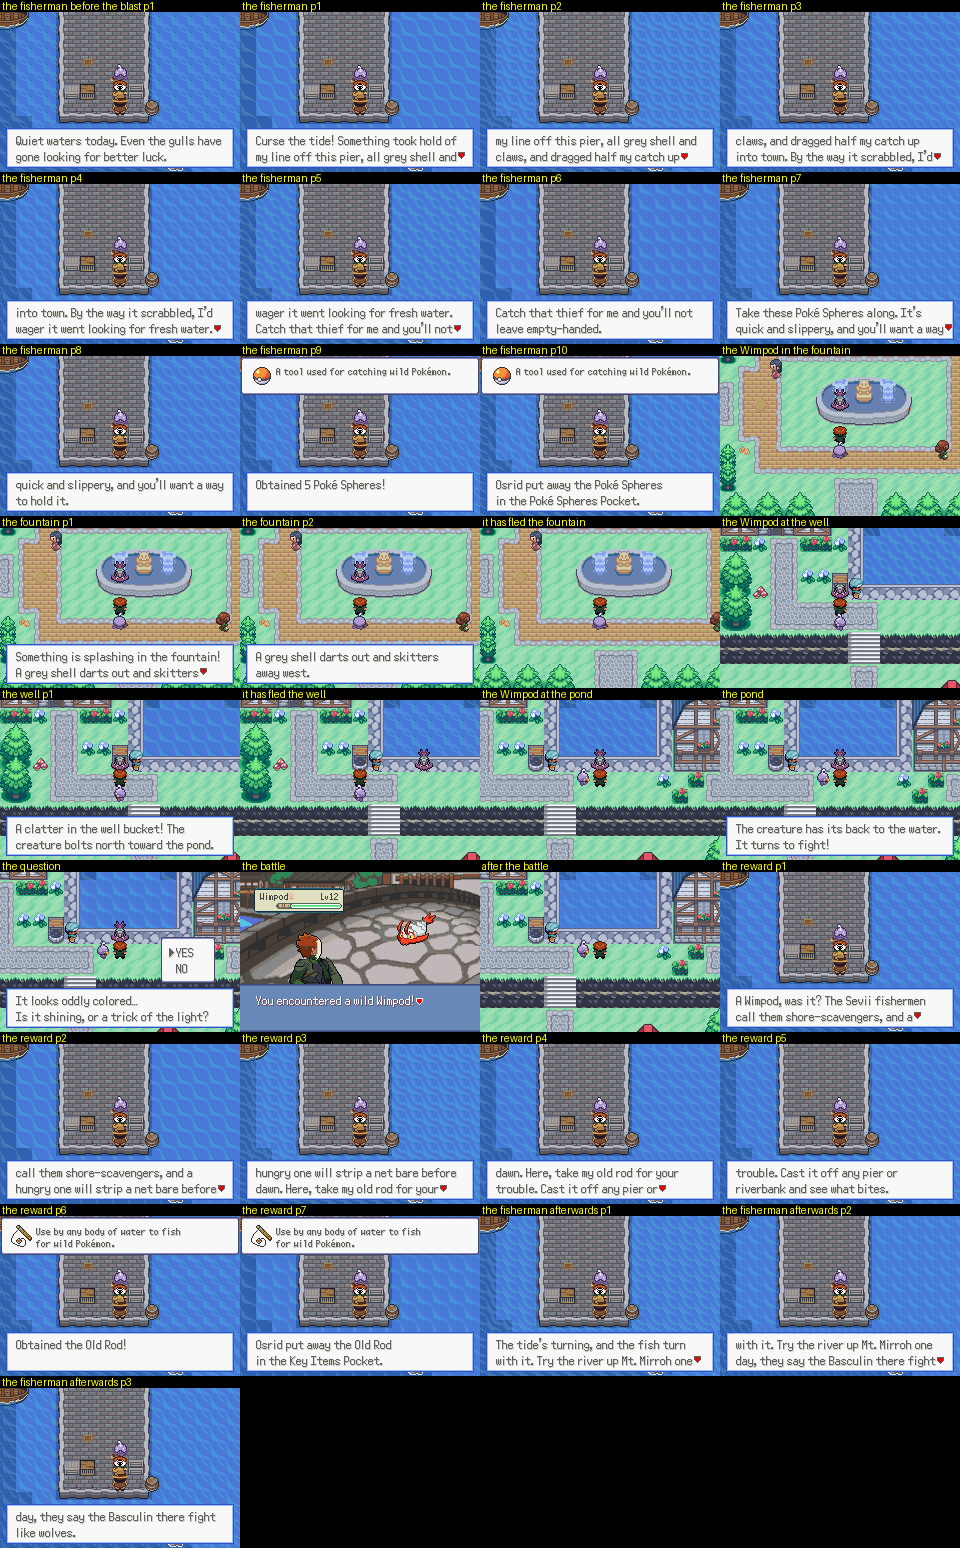
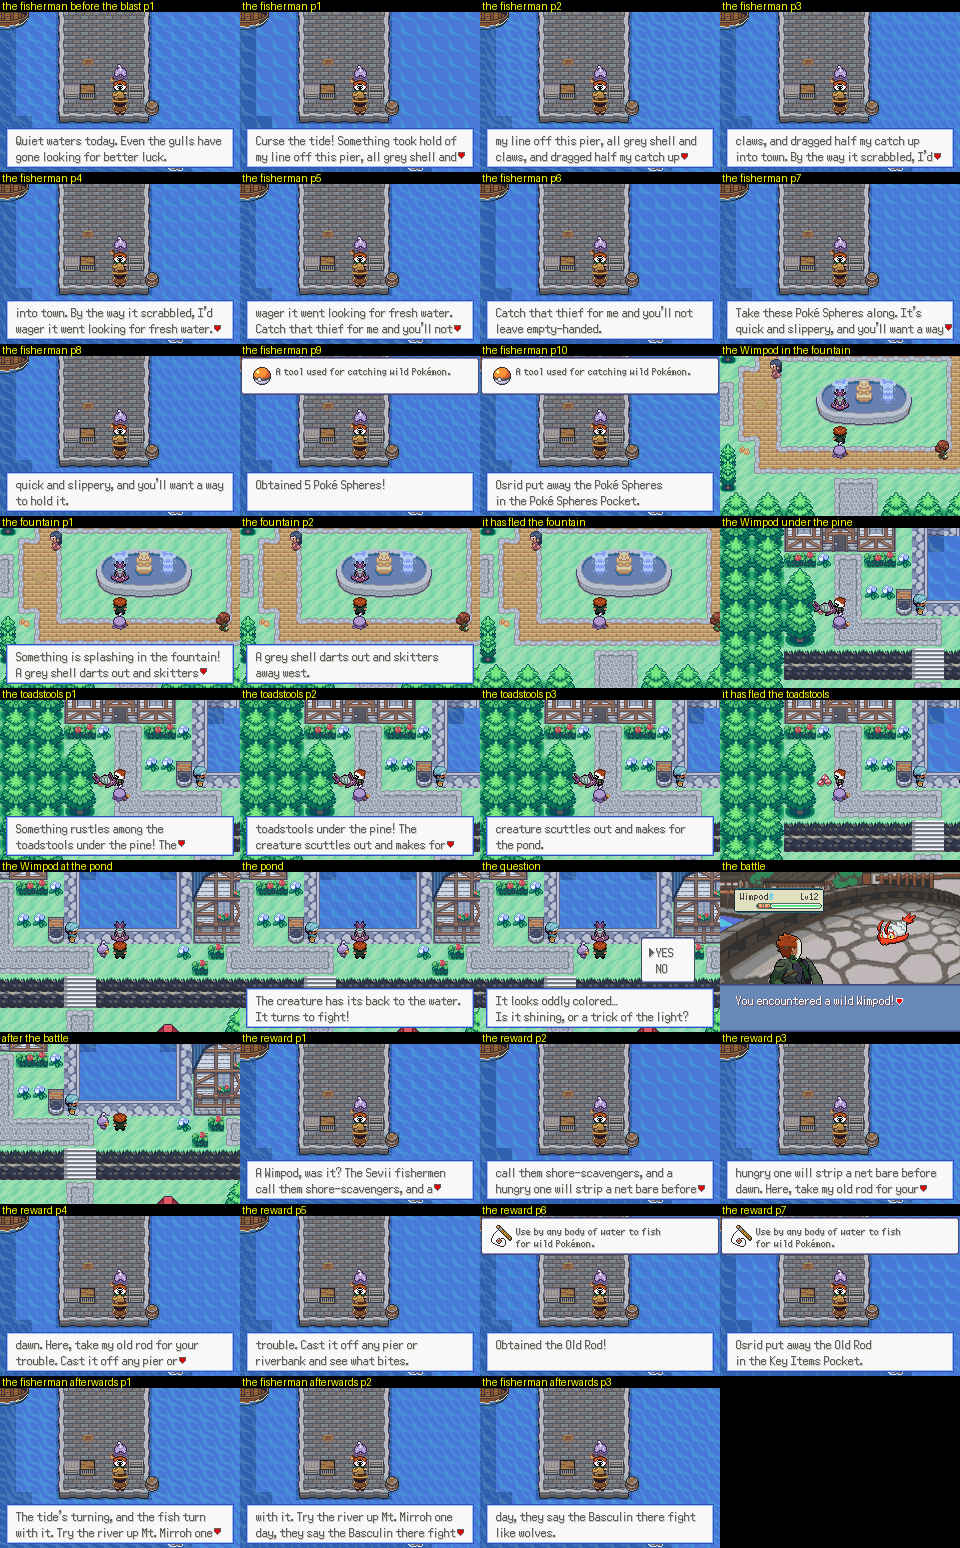
Fisherman's Dilemma: the Wimpod's second hiding place moved away from people
User 2026-11-27: a fleeing Wimpod would not hide next to a person (the minstrel
by the well). It now hides among the toadstools under the big pine west of the
well (10, 12) and makes for the pond. Walked: ALL OK.

Claude-Session: https://claude.ai/code/session_01FHXnfqnedTHLf5QFbB3MCU

diff --git a/tools/playtest/fisherman_dilemma_walk.py b/tools/playtest/fisherman_dilemma_walk.py
@@ -1,6 +1,6 @@
 """The Fisherman's Dilemma walked (2026-11-27): from Pelluca's west gate (after the blast) down to the harbour; the
-fisherman at the end of the great pier gives the quest; the Wimpod at the plaza fountain flees, then the one at the
-well flees, then at the pond it turns to fight: the shiny-tease question (answered YES), a Lv.12 shiny Wimpod with
+fisherman at the end of the great pier gives the quest; the Wimpod at the plaza fountain flees, then the one among the
+toadstools under the pine flees, then at the pond it turns to fight: the shiny-tease question (answered YES), a Lv.12 shiny Wimpod with
 Aqua Jet / Bug Bite / Trailblaze and Tough Claws (its hidden slot) is read from the battle data, knocked out (test
 help: its HP set to 1); then the fisherman gives the Old Rod (read from the bag). Needs the r11_entry state.
 Writes assets/pelluca_reference/ingame_fisherman_dilemma_walk.png."""
@@ -48,9 +48,9 @@ go_wild('PellucaHarbour', (38, 7)); g.run(12, 'UP'); g.run(260)
 go_wild('PellucaCity', (37, 27)); face('UP'); shot('the Wimpod in the fountain'); say('the fountain')
 g.run(60); shot('it has fled the fountain')
 check('it left the fountain', flag('FLAG_DR_WIMPOD_LEFT_FOUNTAIN'))
-# 3. the well
-go_wild('PellucaCity', (15, 13)); face('UP'); shot('the Wimpod at the well'); say('the well')
-g.run(60); shot('it has fled the well')
+# 3. the toadstools under the pine
+go_wild('PellucaCity', (11, 12)); face('LEFT'); shot('the Wimpod under the pine'); say('the toadstools')
+g.run(60); shot('it has fled the toadstools')
 check('it left the well', flag('FLAG_DR_WIMPOD_LEFT_WELL'))
 # 4. the pond: the question, the battle
 go_wild('PellucaCity', (19, 13)); face('UP'); shot('the Wimpod at the pond')

diff --git a/bible/20_chapter1_build.md b/bible/20_chapter1_build.md
@@ -26,7 +26,7 @@ Then the starter scene proper: three Poké-Ball-like objects on the table; Umbra
 **Beat 4 — Pelluca sandbox (three OPTIONAL sidequests, before Route 11).** Umbra gives permission to explore. NPC chatter, flavor, wild grass, and three sidequests that double as a town tutorial. All three share one shape — *NPC → search the valley → confrontation → choice-reward*, and lean on the shiny-tease mechanic (§16.5) — so one script scaffold serves all three:
 1. **The Burglar Egg** `[eggs REVISED user 2026-11-27; not built]`. An old man blocking the **Tavern** (the empire-era Pokémon Center; §4) reports a burglar on a robbery spree who stole his money and house key but *not* the three Pokémon eggs he nurtures under Vizier Umbra's orders. Track the burglar across town → beat him → key item **Burglar Loot** → return → choose 1 of 3 eggs. **The three eggs (user 2026-11-27): Squirtle, Chespin and Chimchar**, rare starters from distant lands, raised for Umbra to study; the player chooses one, and the chosen egg keeps the **shiny-tease** (§16.5). *Replaces the Dark-type trio (Impidimp / Sandile / Galarian Zigzagoon): the E. Rufflet now covers Dark.* **Checked (2026-11-27):** none of the three lines is on any planned Ruination team (Trials, Viziers, cults, Glaive, Eden, Future-Red, the stat-rivals) or in any wild table. Before Kimaris (cap 18) all three reach their middle stage (Wartortle and Quilladin at 16, Monferno at 14), and each has an answer to him: Squirtle's Bite (12), Chespin's Bite (11) and Leech Seed (15), Chimchar's Ember (7) and Taunt (9). **Principle 2:** the two unchosen lines are obtainable nowhere else in Ruination. **Build:** these species take 20 egg cycles (about 5,000 steps) and hatch at level 1; the script lowers the given egg's remaining cycles (stored in its friendship field) so it hatches during the Pelluca sidequests or on Route 11 (value to tune in play). **NOTE:** this is DISTINCT from the **Joustroll egg** (the third Umbra egg sealed in the deep cavern — that is the *Trial-4* sidequest, §6/§9). Pelluca's deep cavern exists in Ch.1 but its quest is Trial-4-gated.
 2. **Underground Ice Path** `[trigger LOCKED 2026-11-19, user: no longer an optional sandbox quest]`. **Before the player leaves Pelluca Valley, Eden escapes the monastery holding cell with a small explosive she had hidden in her clothes. The blast is what opens the crack in the floor of the church** (the monastery's main hall, next to the cell), and the player is told to go down and investigate. **Sequence (user 2026-11-19, working version):** after the shard briefing Cadmus takes the player back to the lab to finish explaining the mission; **the explosion goes off there**, Cadmus rushes to the church, telling the player to **meet him at the church when they have time but not to leave the Valley in the meantime**. That opens the Pelluca sandbox: explore with the starter, the fisherman's quest, a trainer or two in town. **Trying to leave the Valley (Route 11 or any exit) is stopped** with Osrid's own line (his portrait) reminding himself that Cadmus told him to meet him at the church and he can't leave yet. At the church the player is sent down the crack: the blast splits the **gold medallion at the centre of the nave**, frost creeping out round the split; the **Templar there remarks on the sudden drop in temperature** (there must be a great deal of ice right below the church) (user 2026-11-19). **The blast only exposed an old fault** (user 2026-11-19): the church always had a foundation problem, sitting over the frozen hollow; given more time, even the slightest earthquake or other tectonic activity could have dropped the whole church into the caves below. (A thread for the Templars / Archbishop Caymen's inspection in 8d, and for the original framing's "foundation crack".) **The cell room caves in** (user 2026-11-19): the blast lets Eden out of the cell but brings part of the cell room down; that collapse sets off the chain of cracks that splits the chapel floor (the cell doorway is choked with rubble in the after-blast church). **Foreshadowing in the cell scene** (user 2026-11-19): when Eden is behind bars and Osrid, Cadmus and the local Templar stand before the cell, Cadmus remarks that the cell room seems poorly kept, he can even see cracks; the Templar brushes it off (the church is just old; little cracks are its natural age, not a problem); Cadmus lets it go and the interrogation begins. Draft lines in `docs/chapter1_dialogue.md` (The Templar holding cell). **Tone for the events and dialogue** (user 2026-11-19, for stages 3-4): the sorrow of a holy place dedicated to Arceus tarnished this badly (the split medallion, the cracked windows, the girl's cracked face, the collapsed cell room), and then the turn: under the church the player uncovers magnificent proof that Arceus was worshipped **before the empire was even formed**, so the frozen chamber below becomes a **priceless holy site**. **Archbishop Ambrose Caymen** gets a strong scene here (his 8d visit to inspect the ruins). **Why it matters so much** (user 2026-11-19): Arceus worship is young and almost Cormoria's alone (Kanto, Johto and most other nations do not believe Arceus exists and refuse to convert; 02_geopolitics.md), so proof that Arceus was worshipped *before Cormoria existed* is a discovery of the first order for the faith and for the empire's claims. Original framing, superseded: at the Arceus church, a **Templar** reports a foundation crack that opened an underground ice cave. Descend → **crack-tile ice puzzle** (each tile cracks on first step; a second step blacks out and resets to the start; **user 2026-11-19: one big field in the manner of Pokémon Pisces' Sootopolis gym: every ice tile must be cracked exactly once, a single unbroken route around ice boulders, before the way on opens**) → a half-thawed Arceus statue with key item **Sparkling Opal**. The Templar hails it as **pre-imperial evidence of Arceus worship** — the Order's standing goal (§16.6) — and reports the player to the Archbishop (**Ambrose Caymen**). Reward: choice of **Never-Melt Ice / Metal Coat / Soft Sand** (aligned to the three starters' types; confirm the exact mapping, esp. Soft Sand → the Bloodmoon Ursaluna Ground side). **Rewards (user 2026-11-20): both.** The type-item choice is the reward for the player's bravery in going down. Separately, when the player shows Archbishop Ambrose the Opal he gives the **Warding Ring** (key item: worn, it keeps wild Pokémon away, a Repel switched on and off at will) **with massive enthusiasm**: Sparkling Opals form only where Arceus has set foot in the material realm; the Templars have sought one for centuries (whispered of in doctrine, reportedly seen), and this is, as far as he knows, **the first physical proof of Arceus found in centuries** (13_cosmology_mechanics.md, Sparkling Opals).
-3. **The Fisherman's Dilemma** `[BUILT and walked 2026-11-27]`. A fisherman at the south dock says he hooked a rare Water-type that overpowered him and fled into town. Find it in **three hiding spots** (the DM Skitty-quest pattern); on the third it turns to fight → shiny-tease prompt → **Lv.12 Wimpod**, catch or defeat. Custom Wimpod moveset (**Aqua Jet / Bug Bite / Trailblaze**). See §16.5 for the tied **Golisopod Tough-Claws** viability change. **Reward (user 2026-11-27): the fisherman then gives the player the Old Rod, whether the Wimpod was caught or defeated.** It opens Chapter 1's fishing (Pelluca, Route 11, and the Mt. Mirroh river after Trial 1; tables in `docs/chapter1_wild_encounters_draft.md`). **As built (user-approved plan and lines, 2026-11-27):** the fisherman stands at the end of Pelluca Harbour's great pier (39, 26); before Eden's blast he has only an idle line (the quest opens with the sandbox, `FLAG_DR_CHURCH_BLASTED`). **Giving the quest he hands over 5 Poké Spheres** (user 2026-11-27: the player has none yet), so the Wimpod can be caught. The Wimpod splashes **in the plaza fountain's water** (37, 25; user: in the water, not on the edge), spoken to from the rim (sign events on (36-38, 26)), flees west; then at the well by the north-west house (15, 12), flees north; then on the pond's south bank (19, 12) it turns to fight: the shiny-tease question, then a Lv.12 Wimpod (Aqua Jet / Bug Bite / Trailblaze) in its hidden-ability slot. **Wimpod's hidden ability is Tough Claws** (a DR change, so the quest Wimpod stands and fights instead of fleeing with Wimp Out, and its Golisopod keeps Tough Claws); **Golisopod's hidden ability is Tough Claws** (§16.5 item 2, built). Running from or losing the battle leaves it on the bank to try again; caught or defeated, the fisherman gives the Old Rod. Steps and hiding places are DR flags 0x0C-0x13 (each Wimpod shows only at its own step: `PellucaCity_EventScript_WimpodFlags` on every visit). **Walked** (`tools/playtest/fisherman_dilemma_walk.py`, ALL OK; `CATCH=1`: caught with his Spheres, ALL OK): the quest given, 5 Spheres received, both flights, the question answered yes, a shiny Lv.12 Wimpod with the three moves and Tough Claws, beaten, the Old Rod in the bag, the fisherman's after-line.
+3. **The Fisherman's Dilemma** `[BUILT and walked 2026-11-27]`. A fisherman at the south dock says he hooked a rare Water-type that overpowered him and fled into town. Find it in **three hiding spots** (the DM Skitty-quest pattern); on the third it turns to fight → shiny-tease prompt → **Lv.12 Wimpod**, catch or defeat. Custom Wimpod moveset (**Aqua Jet / Bug Bite / Trailblaze**). See §16.5 for the tied **Golisopod Tough-Claws** viability change. **Reward (user 2026-11-27): the fisherman then gives the player the Old Rod, whether the Wimpod was caught or defeated.** It opens Chapter 1's fishing (Pelluca, Route 11, and the Mt. Mirroh river after Trial 1; tables in `docs/chapter1_wild_encounters_draft.md`). **As built (user-approved plan and lines, 2026-11-27):** the fisherman stands at the end of Pelluca Harbour's great pier (39, 26); before Eden's blast he has only an idle line (the quest opens with the sandbox, `FLAG_DR_CHURCH_BLASTED`). **Giving the quest he hands over 5 Poké Spheres** (user 2026-11-27: the player has none yet), so the Wimpod can be caught. The Wimpod splashes **in the plaza fountain's water** (37, 25; user: in the water, not on the edge), spoken to from the rim (sign events on (36-38, 26)), flees west; then among the toadstools under the big pine west of the well (10, 12; user 2026-11-27: not by the well, where the minstrel stands, since a fleeing Wimpod would not hide next to a person), flees east toward the pond; then on the pond's south bank (19, 12) it turns to fight: the shiny-tease question, then a Lv.12 Wimpod (Aqua Jet / Bug Bite / Trailblaze) in its hidden-ability slot. **Wimpod's hidden ability is Tough Claws** (a DR change, so the quest Wimpod stands and fights instead of fleeing with Wimp Out, and its Golisopod keeps Tough Claws); **Golisopod's hidden ability is Tough Claws** (§16.5 item 2, built). Running from or losing the battle leaves it on the bank to try again; caught or defeated, the fisherman gives the Old Rod. Steps and hiding places are DR flags 0x0C-0x13 (each Wimpod shows only at its own step: `PellucaCity_EventScript_WimpodFlags` on every visit). **Walked** (`tools/playtest/fisherman_dilemma_walk.py`, ALL OK; `CATCH=1`: caught with his Spheres, ALL OK): the quest given, 5 Spheres received, both flights, the question answered yes, a shiny Lv.12 Wimpod with the three moves and Tough Claws, beaten, the Old Rod in the bag, the fisherman's after-line.
 
 **Beat 5 — Route 11 hook (the plot beat)** `[REVISED user 2026-11-26; supersedes the cultists-and-Eiscue version]`. On the dirt track at Route 11's west end, before Hollow Hill, the player comes on **Loulan** (§16.6), a young female Templar knight-priest, with her shiny **Eiscue** partner (hers, not stolen), trying to fight off a **Marauder Goon and a Marauder Bandit** (§16.6 item 8) who are **stealing the Emergent Rufflet chick** she was **raising under Archbishop Ambrose's orders, to study it**. They mean to take it to their **Marauder chief, Ripthane Rougehand ("Rip")**, who would likely **sell it to the highest bidder: one of the cults, or some corrupt noble who collects rare Pokémon**. They get away into Hollow Hill. Loulan asks the player to go after them, and tells them **she will be waiting at Templar HQ** for them to bring the Rufflet there.
 
